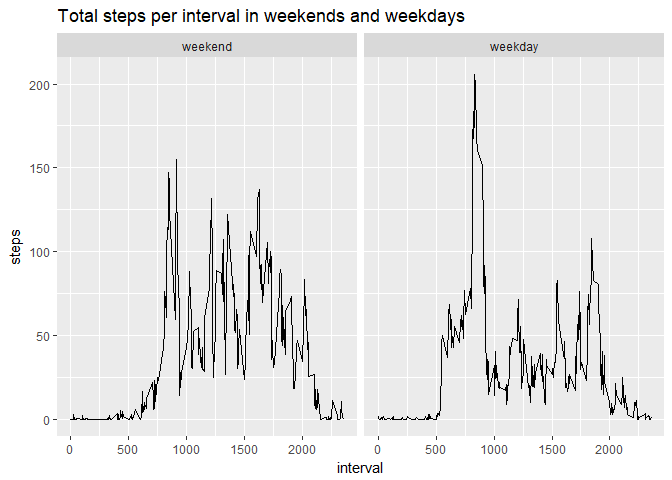
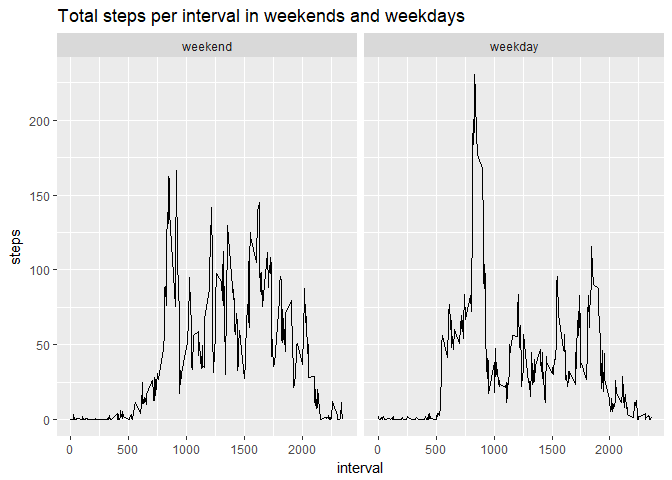
my updated files

diff --git a/PA1_template.html b/PA1_template.html
@@ -128,12 +128,12 @@ $(document).ready(function () {
 <div id="what-is-mean-total-number-of-steps-taken-per-day" class="section level2">
 <h2>What is mean total number of steps taken per day?</h2>
 <p>The total number of steps is aggregated per day, for which the mean and median are calculated as follows:</p>
-<pre class="r"><code>steps_day &lt;- tapply(activity$steps, activity$date, sum, na.rm= T)
-c(mean(steps_day), median(steps_day))</code></pre>
-<pre><code>## [1]  9354.23 10395.00</code></pre>
+<pre class="r"><code>steps_day= aggregate(steps ~ date, data= activity, FUN= sum, na.rm= T)
+c(mean(steps_day$steps), median(steps_day$steps))</code></pre>
+<pre><code>## [1] 10766.19 10765.00</code></pre>
 <p>Using the aggregated variable, a histogram plot of the total no of steps taken each day is created.</p>
-<pre class="r"><code>hist(steps_day, xlab = &quot;No of Steps per day&quot;, ylab = &quot;Frequency&quot;, main = &quot;Frequency of total no of steps taken each day&quot;)</code></pre>
[1 lines of base64/hex data omitted]
+<pre class="r"><code>hist(steps_day$steps, xlab = &quot;No of Steps per day&quot;, ylab = &quot;Frequency&quot;, main = &quot;Frequency of total no of steps taken each day&quot;)</code></pre>
[1 lines of base64/hex data omitted]
 </div>
 <div id="what-is-the-average-daily-activity-pattern" class="section level2">
 <h2>What is the average daily activity pattern?</h2>
@@ -151,19 +151,19 @@ plot(steps_interval$interval, steps_interval$steps, type= &quot;l&quot;, xlab= &
 <pre class="r"><code>NAs &lt;- which(is.na(activity$steps))
 length(NAs)</code></pre>
 <pre><code>## [1] 2304</code></pre>
-<p>A new variable called activity2 is created equals to the original activity. As an alternative to looping through the NA records, replacing the ‘steps’ with their mean/median aggregated values at the respective date or interval (as given by steps_interval variable). Using data tables, the median values of steps are aggregated and replicated at each given interval of the day in a new column called msteps. to which NA steps in activity2 are mapped and replaced by.</p>
+<p>A new variable called activity2 is created equals to the original activity. As an alternative to looping through the NA records, replacing the ‘steps’ with their mean/median aggregated values at the respective date or interval (as given by steps_interval variable). Using data tables, the mean values of steps are aggregated and replicated at each given interval of the day in a new column called msteps. to which NA steps in activity2 are mapped and replaced by.</p>
 <pre class="r"><code>activity2 &lt;- activity
 activity= data.table::as.data.table(activity)
-activity[, msteps:= median(steps, na.rm= T), by= interval]
+activity[, msteps:= mean(steps, na.rm= T), by= interval]
 activity2$steps[NAs]= activity$msteps[NAs]
 ##library(Hmisc); activity2$steps &lt;- impute(activity$steps, FUN= mean) #filling spaces, mean is strictly the same</code></pre>
 <p>Using the imputed activity data frame, the total number of steps per day is re-calculated and the plot is provided as follows:</p>
 <pre class="r"><code>steps_day2= aggregate(steps ~ date, data= activity2, FUN= sum, na.rm= T)
 hist(steps_day2$steps, xlab = &quot;No of Steps per day&quot;, ylab = &quot;Frequency&quot;, main = &quot;Frequency of total no of steps taken each day&quot;)</code></pre>
[1 lines of base64/hex data omitted]
-<p>The median is unchanged, while the mean has shifted from the original NA-omitted data values.</p>
[1 lines of base64/hex data omitted]
+<p>The mean is unchanged, while the median has slightly shifted from the original NA-omitted data values.</p>
 <pre class="r"><code>c(mean(steps_day2$steps), median(steps_day2$steps))</code></pre>
-<pre><code>## [1]  9503.869 10395.000</code></pre>
+<pre><code>## [1] 10766.19 10766.19</code></pre>
 </div>
 <div id="are-there-differences-in-activity-patterns-between-weekdays-and-weekends" class="section level2">
 <h2>Are there differences in activity patterns between weekdays and weekends?</h2>
@@ -175,7 +175,7 @@ steps_interval2= aggregate(steps ~ interval + weekday, data= activity2, FUN= mea
 library(ggplot2)</code></pre>
 <pre><code>## Warning: package 'ggplot2' was built under R version 3.4.1</code></pre>
 <pre class="r"><code>ggplot(steps_interval2, aes(interval, steps)) + geom_line() + facet_grid(.~weekday) + ggtitle(&quot;Total steps per interval in weekends and weekdays&quot;)</code></pre>
[2 lines of base64/hex data omitted]
 </div>
 
 

diff --git a/PA1_template.md b/PA1_template.md
@@ -15,19 +15,19 @@ The total number of steps is aggregated per day, for which the mean and median a
 
 
 ```r
-steps_day <- tapply(activity$steps, activity$date, sum, na.rm= T)
-c(mean(steps_day), median(steps_day))
+steps_day= aggregate(steps ~ date, data= activity, FUN= sum, na.rm= T)
+c(mean(steps_day$steps), median(steps_day$steps))
 ```
 
 ```
-## [1]  9354.23 10395.00
+## [1] 10766.19 10765.00
 ```
 
 Using the aggregated variable, a histogram plot of the total no of steps taken each day is created.
 
 
 ```r
-hist(steps_day, xlab = "No of Steps per day", ylab = "Frequency", main = "Frequency of total no of steps taken each day")
+hist(steps_day$steps, xlab = "No of Steps per day", ylab = "Frequency", main = "Frequency of total no of steps taken each day")
 ```
 
 ![](PA1_template_files/figure-html/unnamed-chunk-3-1.png)<!-- -->
@@ -69,13 +69,13 @@ length(NAs)
 ## [1] 2304
 ```
 
-A new variable called activity2 is created equals to the original activity. As an alternative to looping through the NA records, replacing the 'steps' with their mean/median aggregated values at the respective date or interval (as given by steps_interval variable). Using data tables, the median values of steps are aggregated and replicated at each given interval of the day in a new column called msteps. to which NA steps in activity2 are mapped and replaced by.
+A new variable called activity2 is created equals to the original activity. As an alternative to looping through the NA records, replacing the 'steps' with their mean/median aggregated values at the respective date or interval (as given by steps_interval variable). Using data tables, the mean values of steps are aggregated and replicated at each given interval of the day in a new column called msteps. to which NA steps in activity2 are mapped and replaced by.
 
 
 ```r
 activity2 <- activity
 activity= data.table::as.data.table(activity)
-activity[, msteps:= median(steps, na.rm= T), by= interval]
+activity[, msteps:= mean(steps, na.rm= T), by= interval]
 activity2$steps[NAs]= activity$msteps[NAs]
 ##library(Hmisc); activity2$steps <- impute(activity$steps, FUN= mean) #filling spaces, mean is strictly the same
 ```
@@ -90,14 +90,14 @@ hist(steps_day2$steps, xlab = "No of Steps per day", ylab = "Frequency", main = 
 
 ![](PA1_template_files/figure-html/unnamed-chunk-8-1.png)<!-- -->
 
-The median is unchanged, while the mean has shifted from the original NA-omitted data values. 
+The mean is unchanged, while the median has slightly shifted from the original NA-omitted data values. 
 
 ```r
 c(mean(steps_day2$steps), median(steps_day2$steps))
 ```
 
 ```
-## [1]  9503.869 10395.000
+## [1] 10766.19 10766.19
 ```
 
 ## Are there differences in activity patterns between weekdays and weekends?
